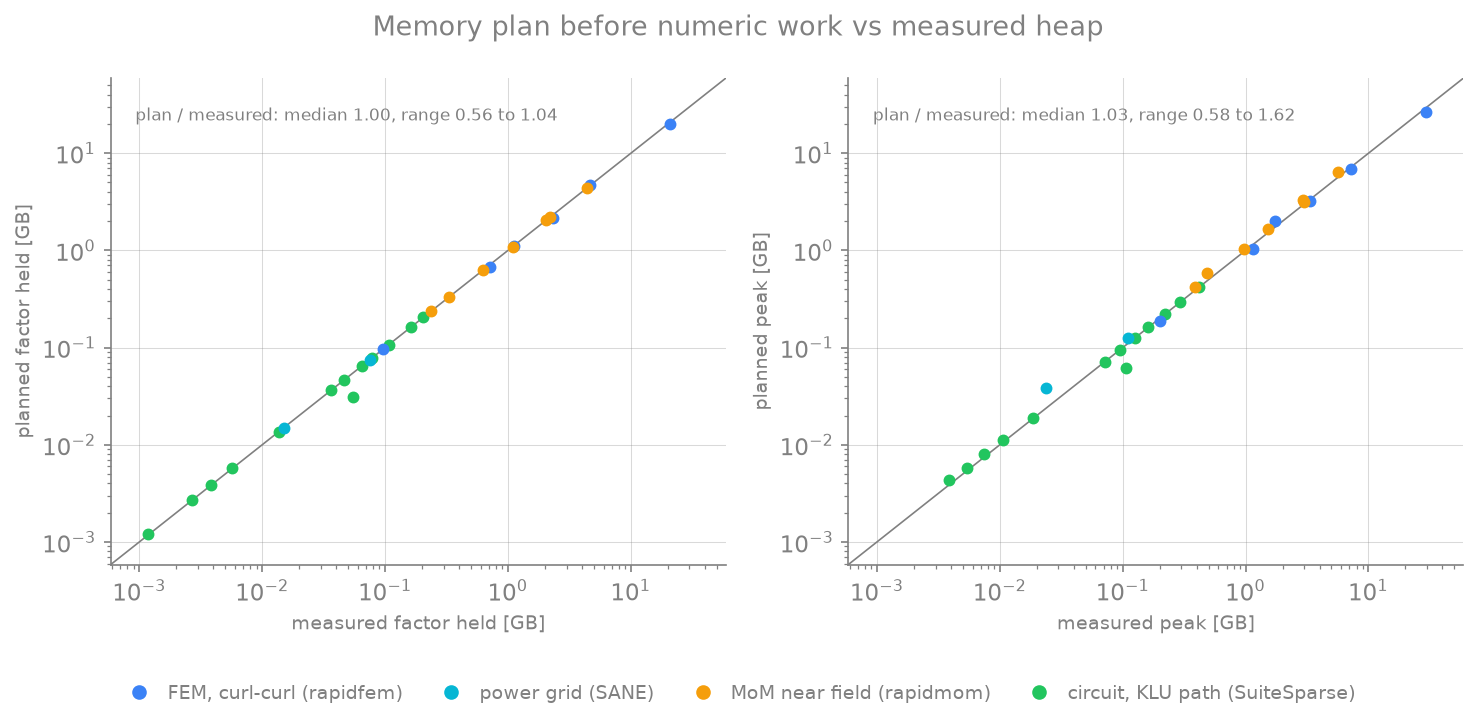
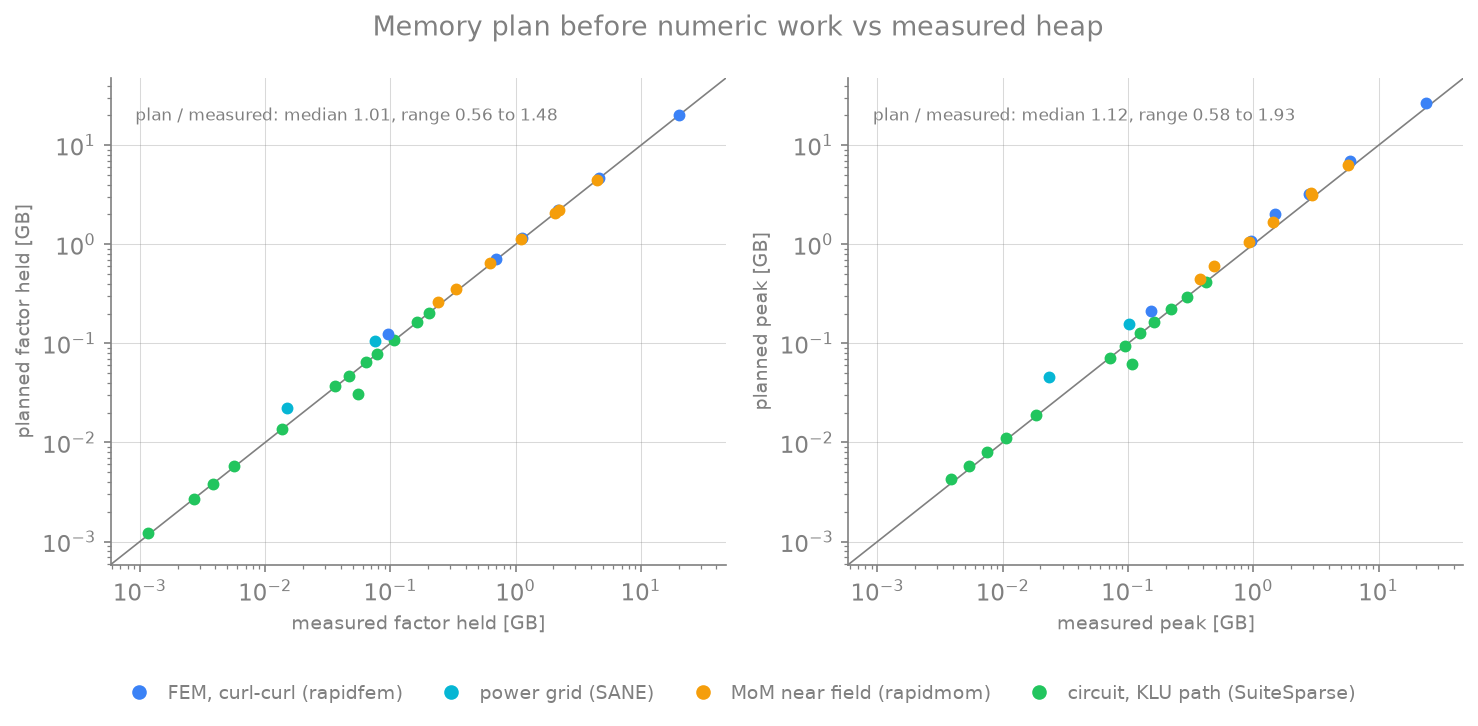
RSLAB memory figure and text after the scratch bound

diff --git a/src/content/stack/rslab.md b/src/content/stack/rslab.md
@@ -70,10 +70,10 @@ PARDISO's wall time on the MoM systems, 1.05 on FEM, 1.06 on the power grids
 and 1.12 on the circuits (geomean per class). The solve alone takes 0.30 to
 0.43 of PARDISO's time in every class.
 
-Against the heap measured with a counting allocator, the planned peak is
-within 15 percent on 25 of the 28 systems. The planned factor storage is
-within 6 percent on all but one circuit, where the threshold pivoting of KLU
-adds fill beyond the prediction.
+Against the heap measured with a counting allocator, the planned peak lies
+above the measured one on 27 of the 28 systems, by 12 percent in the median.
+The exception is one circuit, where the threshold pivoting of KLU adds fill
+beyond the prediction.
 
 ## History
 
